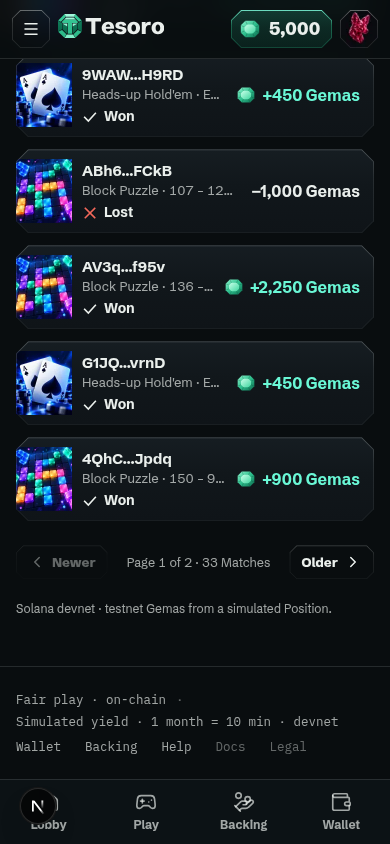
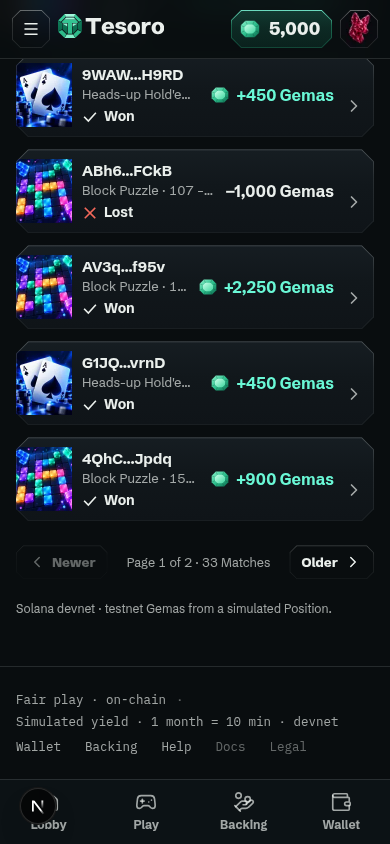
feat(app): Account history rows open the Match beside the opponent
Main now lets anyone view a Match, so a row on someone else's Account is two
links side by side: the opponent to their Account, the chevron to the Match.
The Match view someone else opens links both Players to their Accounts, and
Live wins keep linking to the Match.

diff --git a/app/src/components/match/history.css b/app/src/components/match/history.css
@@ -5,8 +5,9 @@
   grid-template-columns: 76px 112px minmax(0, 1fr) auto 20px; grid-template-areas: "thumb res opp amt go";
 }
 a.mh-row:hover { background: var(--surface-2); }
-/* a row that is not a link (someone else's Account): no chevron column */
-.mh-row.still { grid-template-columns: 76px 112px minmax(0, 1fr) auto; grid-template-areas: "thumb res opp amt"; padding-right: 18px; }
+/* a row that is not one link (someone else's Account): the opponent leads to their Account, the chevron to the Match */
+.mh-go-link { grid-area: go; align-self: stretch; display: grid; place-items: center; margin: 0 -14px 0 -8px; padding: 0 14px 0 8px; }
+.mh-go-link:hover .mh-go { color: var(--fg); }
 .mh-thumb { grid-area: thumb; position: relative; align-self: stretch; overflow: hidden; }
 .mh-thumb img { object-fit: cover; }
 .mh-res { grid-area: res; display: inline-flex; align-items: center; gap: 8px; font-size: 16px; font-weight: 700; }
@@ -32,15 +33,16 @@ a.mh-row:hover { background: var(--surface-2); }
   .mh-opp b { font-size: 15px; }
   .mh-opp small { font-size: 13px; }
   .mh-amt small { max-width: 180px; overflow: hidden; text-overflow: ellipsis; white-space: nowrap; }
-  .mh-row.still { grid-template-columns: 64px minmax(0, 1fr) auto; grid-template-areas: "thumb opp amt" "thumb res amt"; padding-right: 14px; }
+  .mh-go-link { margin-right: -12px; padding-right: 12px; }
   .mh-row.still .mh-amt small { max-width: 170px; white-space: normal; text-wrap: balance; }
 }
 @container (max-width: 460px) {
   .mh-row { grid-template-columns: 56px minmax(0, 1fr) auto; grid-template-areas: "thumb opp amt" "thumb res amt"; column-gap: 10px; }
   .mh-av, .mh-go { display: none; }
   .mh-amt small { max-width: 132px; }
-  .mh-row.still { grid-template-columns: 56px minmax(0, 1fr) auto; }
-  .mh-row.still .mh-amt small { max-width: 132px; }
+  .mh-row.still { grid-template-columns: 56px minmax(0, 1fr) auto 18px; grid-template-areas: "thumb opp amt go" "thumb res amt go"; padding-right: 12px; }
+  .mh-row.still .mh-go { display: block; }
+  .mh-row.still .mh-amt small { max-width: 124px; }
 }
 
 /* ——— All Matches (/matches) ——— */

diff --git a/app/src/components/match/MatchSpectate.tsx b/app/src/components/match/MatchSpectate.tsx
@@ -2,6 +2,7 @@
 
 import Image from "next/image";
 import { useEffect, useState } from "react";
+import { AccountLink } from "@/components/account/AccountLink";
 import { Button, CheckIcon, GemaMark, MinusIcon } from "@/components/ui";
 import { avatarFor } from "@/lib/art";
 import { feeGemas } from "@/lib/chain/ledger";
@@ -14,7 +15,7 @@ import "./match.css";
 const short = (k: string) => `${k.slice(0, 4)}…${k.slice(-4)}`;
 
 /**
- * Someone else's Match, read-only: both Players, the result and the Pot. Open and live Matches are
+ * Someone else's Match, read-only: both Players (each leading to their Account), the result and the Pot. Open and live Matches are
  * re-read every few seconds until they finish; runs and hands stay hidden until settlement.
  */
 export function MatchSpectate({ matchId, onSignIn }: { matchId: string; onSignIn?: () => void }) {
@@ -74,7 +75,7 @@ export function MatchSpectate({ matchId, onSignIn }: { matchId: string; onSignIn
         {s ? (
           <>
             <Image className="mr-sp-av" src={avatarFor(s.player)} alt="" width={56} height={56} />
-            <span className="mono">{short(s.player)}</span>
+            <AccountLink account={s.player} className="mono" />
             {s.funder !== s.player && <small className="note">Backed by {short(s.funder)}</small>}
           </>
         ) : (

diff --git a/app/src/components/match/MatchRow.tsx b/app/src/components/match/MatchRow.tsx
@@ -14,8 +14,8 @@ const RESULT = { won: { text: "Won", Icon: CheckIcon }, lost: { text: "Lost", Ic
 
 /**
  * One finished Match: result (icon and word), opponent, score or entry, the Gema change and any Backing.
- * The row links to the Match, which only its Players and Backer can open. On someone else's Account
- * (`link="opponent"`) the row is not a link and the opponent leads to their Account instead.
+ * The whole row links to the Match. On someone else's Account (`link="opponent"`) it holds two links
+ * side by side instead: the opponent leads to their Account, the chevron to the Match.
  * `backing` replaces the default Backing line.
  */
 export function MatchRow({
@@ -70,7 +70,16 @@ export function MatchRow({
       </span>
     </>
   );
-  if (link === "opponent") return <div className="cut cut-card mh-row still">{cells}</div>;
+  if (link === "opponent") {
+    return (
+      <div className="cut cut-card mh-row still">
+        {cells}
+        <Link href={`/play/match/${r.id}`} className="mh-go-link" aria-label="See this Match">
+          <ChevronRight aria-hidden="true" className="mh-go" />
+        </Link>
+      </div>
+    );
+  }
   return (
     <Link href={`/play/match/${r.id}`} className="cut cut-card mh-row">
       {cells}

diff --git a/app/src/components/lobby/LiveWins.tsx b/app/src/components/lobby/LiveWins.tsx
@@ -12,7 +12,7 @@ import type { SettledMatch } from "@/lib/chain/settled";
 import { fmtGemas } from "@/lib/format";
 import { GAME_NAMES } from "@/lib/mock";
 
-/** Recent wins, settled on Solana devnet, as one slow strip under the hero; each leads to the winner's Account. Pauses on hover and focus. */
+/** Recent wins, settled on Solana devnet, as one slow strip under the hero. Pauses on hover and focus. */
 export function LiveWins() {
   const { matches } = useRecentSettled(12);
   const { snapshot } = useAccount();
@@ -21,7 +21,7 @@ export function LiveWins() {
 
   const item = (m: SettledMatch, copy: boolean) => (
     <li key={`${copy ? "c" : "o"}${m.id.toString()}`} aria-hidden={copy || undefined}>
-      <Link href={`/account/${m.winner}`} tabIndex={copy ? -1 : undefined}>
+      <Link href={`/play/match/${m.id.toString()}`} tabIndex={copy ? -1 : undefined}>
         <Image className="lw-av" src={avatarFor(m.winner)} alt="" width={28} height={28} />
         <b>{m.winner === me ? "You" : shortKey(m.winner)}</b>
         <span>won</span>

diff --git a/app/src/components/account/account.test.tsx b/app/src/components/account/account.test.tsx
@@ -28,12 +28,13 @@ describe("MatchRow", () => {
     expect(html).not.toContain("/account/");
   });
 
-  it("on someone else's Account links the opponent, not the Match, and never nests links", () => {
+  it("on someone else's Account links the opponent and the Match side by side, never nested", () => {
     const html = renderToStaticMarkup(<MatchRow r={row} now={Date.now()} link="opponent" backing="Backed by Back…1111 · Backer +540" />);
     expect(html).toMatch(/^<div /);
-    expect(html).not.toContain("/play/match/");
     expect(html).toContain(`href="/account/${row.opp}"`);
-    expect(html.match(/<a /g)).toHaveLength(1);
+    expect(html).toContain(`href="/play/match/${row.id}"`);
+    expect(html.match(/<a /g)).toHaveLength(2);
+    expect(html).not.toMatch(/<a [^>]*>(?:(?!<\/a>).)*<a /);
     expect(html).toContain("Backer +540");
   });
 });

diff --git a/DESIGN.md b/DESIGN.md
@@ -97,7 +97,7 @@ A small emerald-cut stone (octagon with table facet and facet lines, emerald gra
   - Top bar: the Gema balance pill (emerald, links to Wallet) and the Account avatar menu (Account, Wallet, Sign out); signed out: a Sign in button. The search box shows on the Lobby only and filters its games.
   - Content is one centred column, max 1320px, with 32px side padding; wider screens get margins, not more content. The footer is one line ("Fair play · on-chain", the simulated-yield label) plus links.
 - **Below 1024px:** the sidebar becomes a left drawer (menu button in the top bar), a four-item bottom navigation appears, the search box drops to its own row on the Lobby, and grids collapse to one column.
-- **Lobby order:** hero carousel (one big slide, slide markers inside its bottom edge, next arrow, auto-advance that pauses on hover, focus and a Pause button, and stops under `prefers-reduced-motion`) → **Live wins** (a slow strip of recent settled wins from devnet, each leading to the winner's Account; pauses on hover and focus; a plain scrollable row under reduced motion) → Continue (only with Matches in progress) → Play now (category filter chips above; the two live Games as large tiles; Coming soon as one quiet strip) → Play again (only with settled Matches, max 3) → Back a player (max 3 Requests, "See all") → footer. The settled-Matches ticker is not in the Lobby.
+- **Lobby order:** hero carousel (one big slide, slide markers inside its bottom edge, next arrow, auto-advance that pauses on hover, focus and a Pause button, and stops under `prefers-reduced-motion`) → **Live wins** (a slow strip of recent settled wins from devnet, linking to each Match; pauses on hover and focus; a plain scrollable row under reduced motion) → Continue (only with Matches in progress) → Play now (category filter chips above; the two live Games as large tiles; Coming soon as one quiet strip) → Play again (only with settled Matches, max 3) → Back a player (max 3 Requests, "See all") → footer. The settled-Matches ticker is not in the Lobby.
 - **Sections:** a bold condensed header, an optional "See all →" link, then a calm grid (no scroll arrows, no horizontal rails).
 
 ## Components
@@ -111,7 +111,7 @@ Live in `app/src/components/ui` (primitives, money, inputs, icons, `ui.css`), th
 - **Living surfaces** (founder, Oct 2: "too static") — the hero art settles in (slow zoom) and its copy rises in order on each slide; a few sparkles twinkle over the art; the big money action catches a passing light every few seconds; Play now tiles lean toward the pointer with a moving glare and carry a live Queue badge; balances count up to new values (`CountUp`), and a won amount counts up from zero; the Block Puzzle score pops on change; grids rise in as they scroll into view (scroll-driven, no JS); each page arrives with a short rise. The red pulsing dot means *live* and always sits beside the word.
 - **Motion that answers an action** — sheets rise in over a blurred page, the drawer and the Offer drawer slide from where they dock, the Account menu drops in, the top bar frosts once the page scrolls under it, and the Lobby hero's slide markers fill while auto-advance runs. All off under `prefers-reduced-motion`.
 - **Tile** — Play Now key art with a bottom label; coming-soon variant dimmed with a "Coming soon" chip.
-- **Player card** — avatar, name, Game, "N Matches · X% won", Entry, emerald **Offer**. The avatar and name lead to the Player's Account (`AccountLink`), as a Player's key does wherever one is shown: Live wins, Requests, applicants, Top scores today, the backed Player on a Backing split, Hold'em seats once the Match has ended. A Backer's key stays plain text.
+- **Player card** — avatar, name, Game, "N Matches · X% won", Entry, emerald **Offer**. The avatar and name lead to the Player's Account (`AccountLink`), as a Player's key does wherever one is shown: Requests, applicants, Top scores today, both Players of a Match someone else is viewing, the backed Player on a Backing split, Hold'em seats once the Match has ended. A Backer's key stays plain text.
 - **Ticker**, **Balance pill**, **Category chip**, **Search**, **Account menu** — see the shell and Lobby.
 - Icons: neutral `lucide-react` line icons (1.7–1.8 stroke) in the shell; the original square-cap glyphs in `ui/icons.tsx` remain for status marks (check, cross, clock).
 
@@ -165,7 +165,7 @@ Never full-body inside a page layout, and never during play: no character in the
 - Hold'em cards: paper faces with condensed ranks; the back (`public/art/card-back.svg`) is navy with a steel lattice and the T-gem in steel — never emerald. The felt has a soft centre light; the pot is a cut plaque.
 - Hold'em play: a slim header (title, blinds, hand #, entry, turn clock), the octagonal navy table with a steel rim centred and large (no green felt), the action bar (Fold, Check, Call, Raise, Raise to, slider, presets, All-in), and the Hand log in a collapsed drawer (inferred by this client from table reads; a poll can merge two actions, and it says so).
 - `/matches` (All Matches, the Account's Match history): every finished Match it played or backed, both games, newest first, 20 per page, game tabs All / Block Puzzle / Hold'em in the URL. Rows pair the result icon with its word; a backed Player's loss is "Lost · 0 Gemas" with the Backer named ("Backer … bore the loss"), as in BackingSplit. Lobby Play again and the game pages link here.
-- `/account/<key>` (a Player's Account, as anyone may see it; signed out too): only what the Player played. Header with the avatar, the short key, the full key in mono and Copy link. Three figures, each with its sample size: Matches ("W of N won", draws and refunds stated as not counted), Gemas won and lost (after Fees), Backings ("W of N won" with the Backers' Gemas and how many Backers are ahead). The Player's Gemas and the Backers' always sit side by side: a loss under a Backing costs the Player nothing, so one figure without the other flatters. Running total: one neutral step line around a zero baseline, a step per Match in the order the Matches were opened (the id carries the opening time, not the settlement); no emerald or red series, the sign is in the text; pointer and arrow keys read each Match; hidden under two Matches with a winner. Then Back this Player (one row per live Request with the emerald Make an Offer, which opens the Offer drawer on `/backing#<request>`; with no Request it says so, because a Backing answers a Request) and Challenge this Player (a sheet with Game and entry that says plainly the link is the only way the Challenge reaches them). Match history as on `/matches`, but rows are not links (only the Players and Backer of a Match can open it): the opponent leads to their Account, and a backed row carries the Backer's result ("Backed by … · Backer +540", "Backer … bore the loss · −1,000"). No balances, no Positions, nothing the Account did as a Backer. On your own Account the two actions give way to links to the Wallet and All Matches. The key in the URL is the Account key; a wallet address is sent on to its Account. Screenshots `app/docs/screens/account-*.png` (`app/scripts/screenshot-account.mjs`).
+- `/account/<key>` (a Player's Account, as anyone may see it; signed out too): only what the Player played. Header with the avatar, the short key, the full key in mono and Copy link. Three figures, each with its sample size: Matches ("W of N won", draws and refunds stated as not counted), Gemas won and lost (after Fees), Backings ("W of N won" with the Backers' Gemas and how many Backers are ahead). The Player's Gemas and the Backers' always sit side by side: a loss under a Backing costs the Player nothing, so one figure without the other flatters. Running total: one neutral step line around a zero baseline, a step per Match in the order the Matches were opened (the id carries the opening time, not the settlement); no emerald or red series, the sign is in the text; pointer and arrow keys read each Match; hidden under two Matches with a winner. Then Back this Player (one row per live Request with the emerald Make an Offer, which opens the Offer drawer on `/backing#<request>`; with no Request it says so, because a Backing answers a Request) and Challenge this Player (a sheet with Game and entry that says plainly the link is the only way the Challenge reaches them). Match history as on `/matches`, but a row is two links side by side instead of one: the opponent leads to their Account and the chevron opens the Match (anyone can view a Match). A backed row carries the Backer's result ("Backed by … · Backer +540", "Backer … bore the loss · −1,000"). No balances, no Positions, nothing the Account did as a Backer. On your own Account the two actions give way to links to the Wallet and All Matches. The key in the URL is the Account key; a wallet address is sent on to its Account. Screenshots `app/docs/screens/account-*.png` (`app/scripts/screenshot-account.mjs`).
 - `/wallet/opening`: OPENING YOUR ETH POSITION, four steps (Hoodi confirmed, LayerZero delivered, Position recorded, Gemas available). Only the last step means Gemas exist; pending never shows a check. Shown right after "Open an ETH Position": the four-step tracker plus one summary line and one note; the corner guide explains the wait. The Wallet's in-page trackers remain.
 - Dev only: `/design/play` (Block Puzzle Match screen, local Seed) and `/design/table` (Hold'em table on a fixed hand, `?facing=1`).
 
